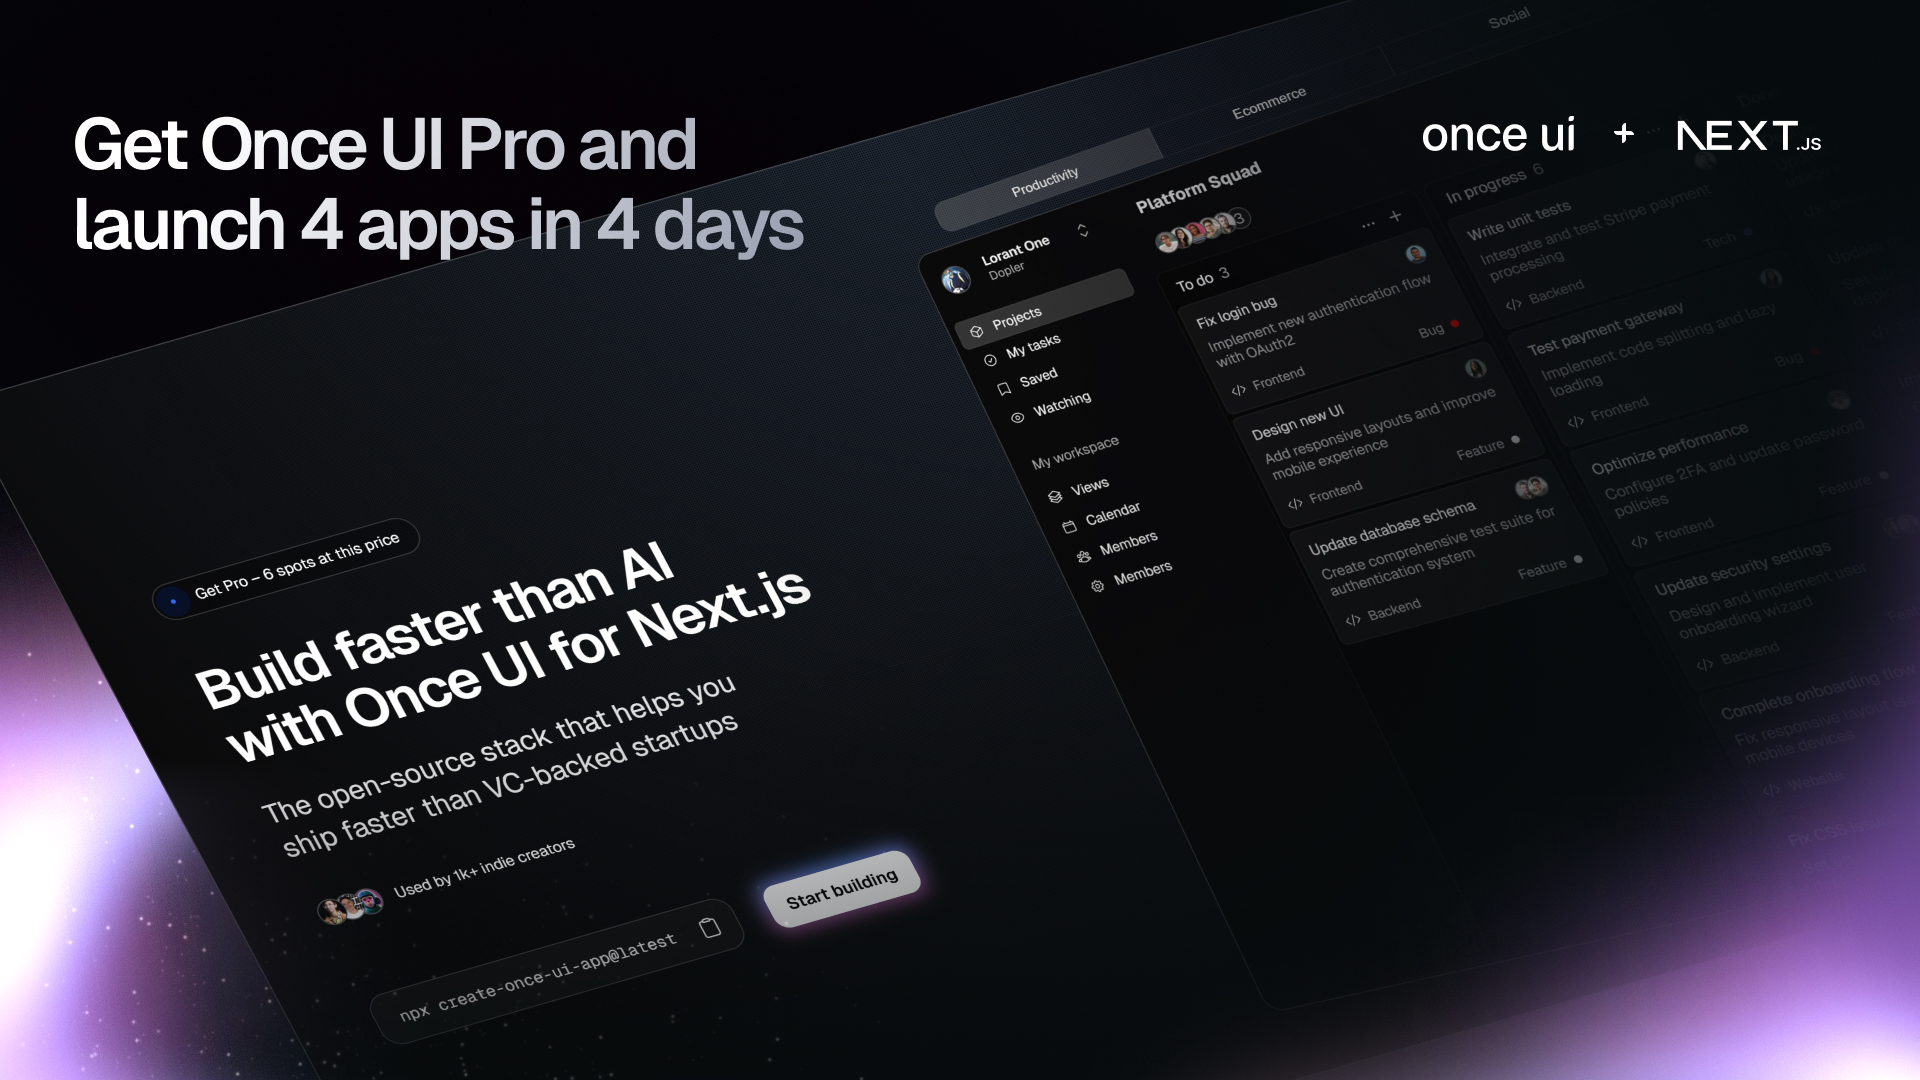
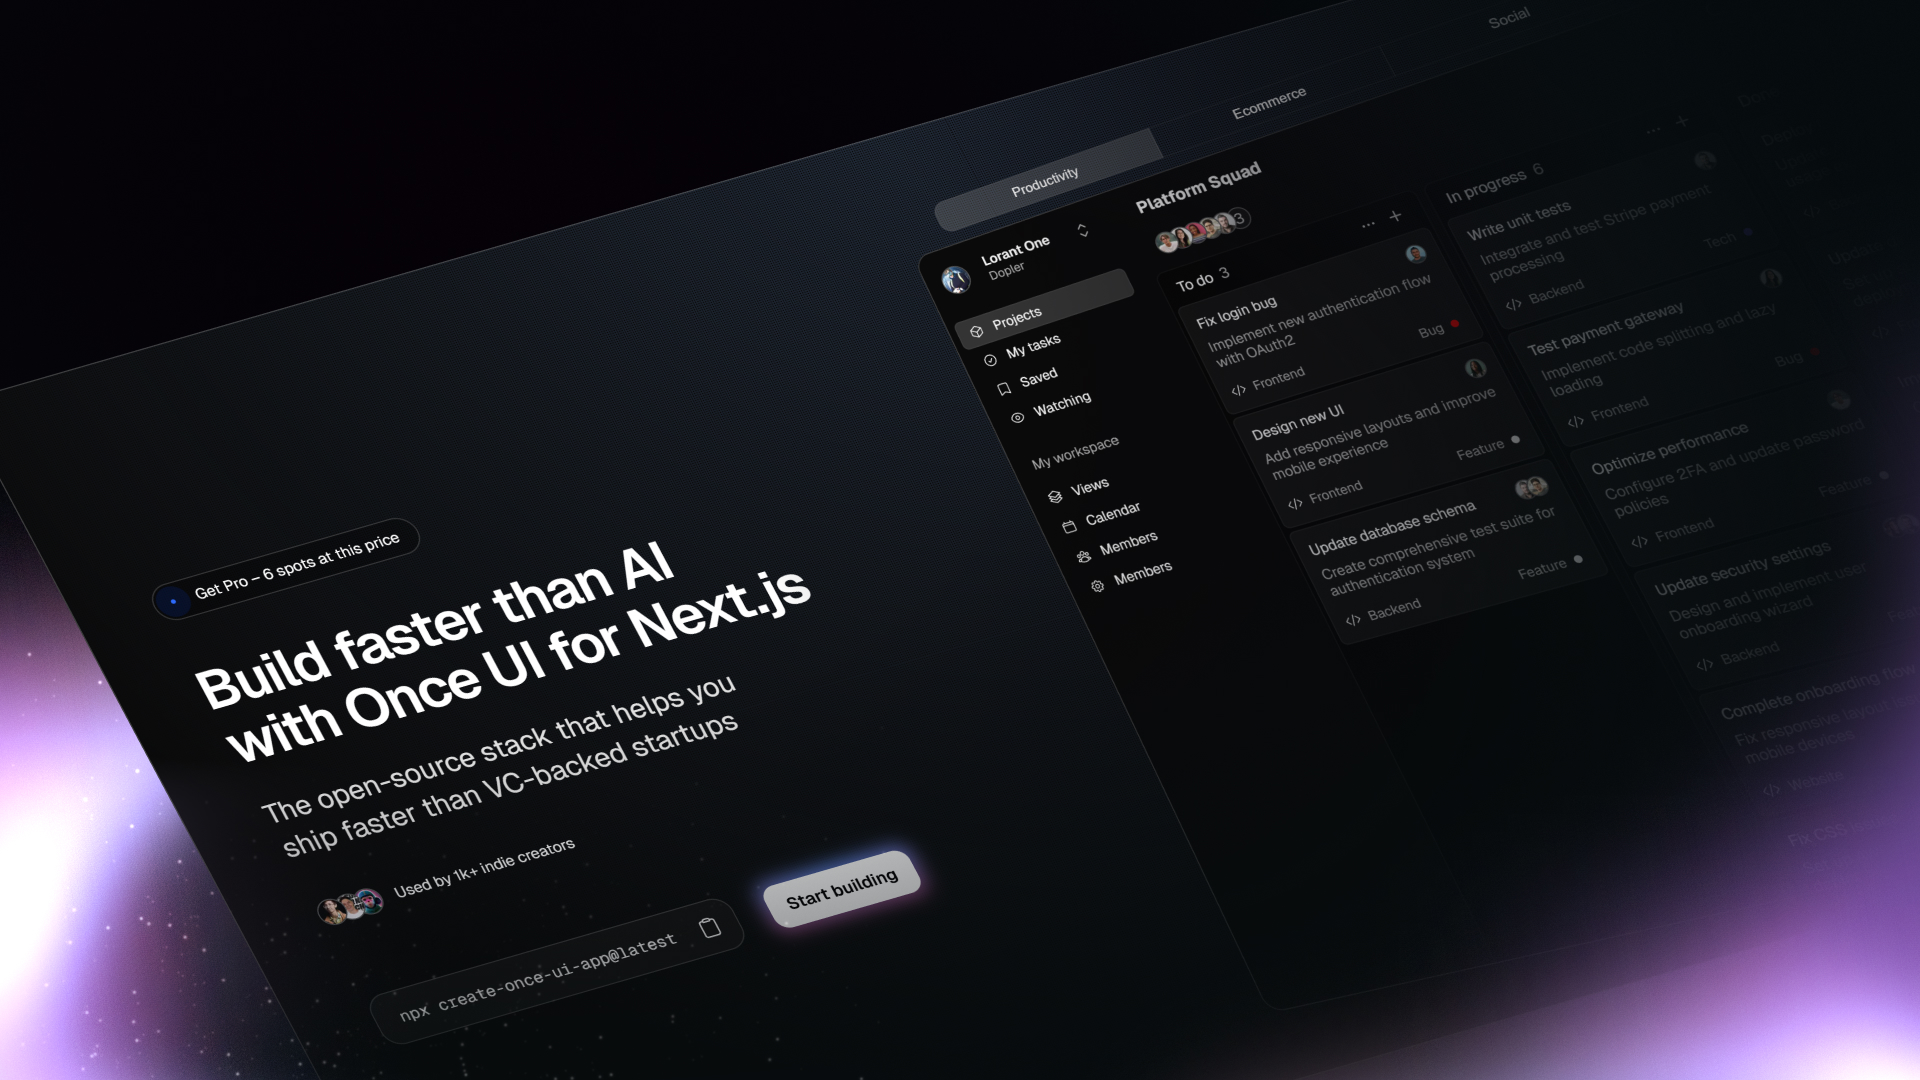
merge themetoggle to header

Changed region(s): [[0.0312, 0.0917, 0.4375, 0.2444], [0.875, 0.0917, 0.9375, 0.1528], [0.75, 0.0917, 0.8125, 0.1528]]

diff --git a/src/components/ThemeToggle.tsx b/src/components/ThemeToggle.tsx
@@ -1,20 +1,18 @@
 'use client';
 
 import React from 'react';
-import { useTheme } from '@/once-ui/hooks/useTheme';
-import { ToggleButton, Line } from '@/once-ui/components';
+import { ToggleButton, useTheme } from '@/once-ui/components';
 
 export const ThemeToggle: React.FC = () => {
-  const { theme, toggleTheme } = useTheme();
+  const { theme, setTheme } = useTheme();
   
   return (
     <>
-      <Line vert maxHeight="24" />
       <ToggleButton
-        prefixIcon={theme === 'light' ? 'sun' : 'moon'}
-        onClick={toggleTheme}
+        prefixIcon={theme === 'dark' ? 'sun' : 'moon'}
+        onClick={() => setTheme(theme === 'light' ? 'dark' : 'light')}
         selected={false}
-        aria-label={`Switch to ${theme === 'dark' ? 'light' : 'dark'} mode`}
+        aria-label={`Switch to ${theme === 'light' ? 'dark' : 'light'} mode`}
       />
     </>
   );

diff --git a/src/once-ui/components/Carousel.tsx b/src/once-ui/components/Carousel.tsx
@@ -119,6 +119,7 @@ const Carousel: React.FC<CarouselProps> = ({
                   }}
                   cursor="interactive"
                   fillWidth
+                  radius="full"
                   height="2"
                 ></Flex>
               ))}

diff --git a/src/components/Header.tsx b/src/components/Header.tsx
@@ -145,6 +145,7 @@ export const Header = () => {
                   />
                 </>
               )}
+              <Line background="neutral-alpha-medium" vert maxHeight="24" />
               <ThemeToggle />
             </Flex>
           </Flex>
